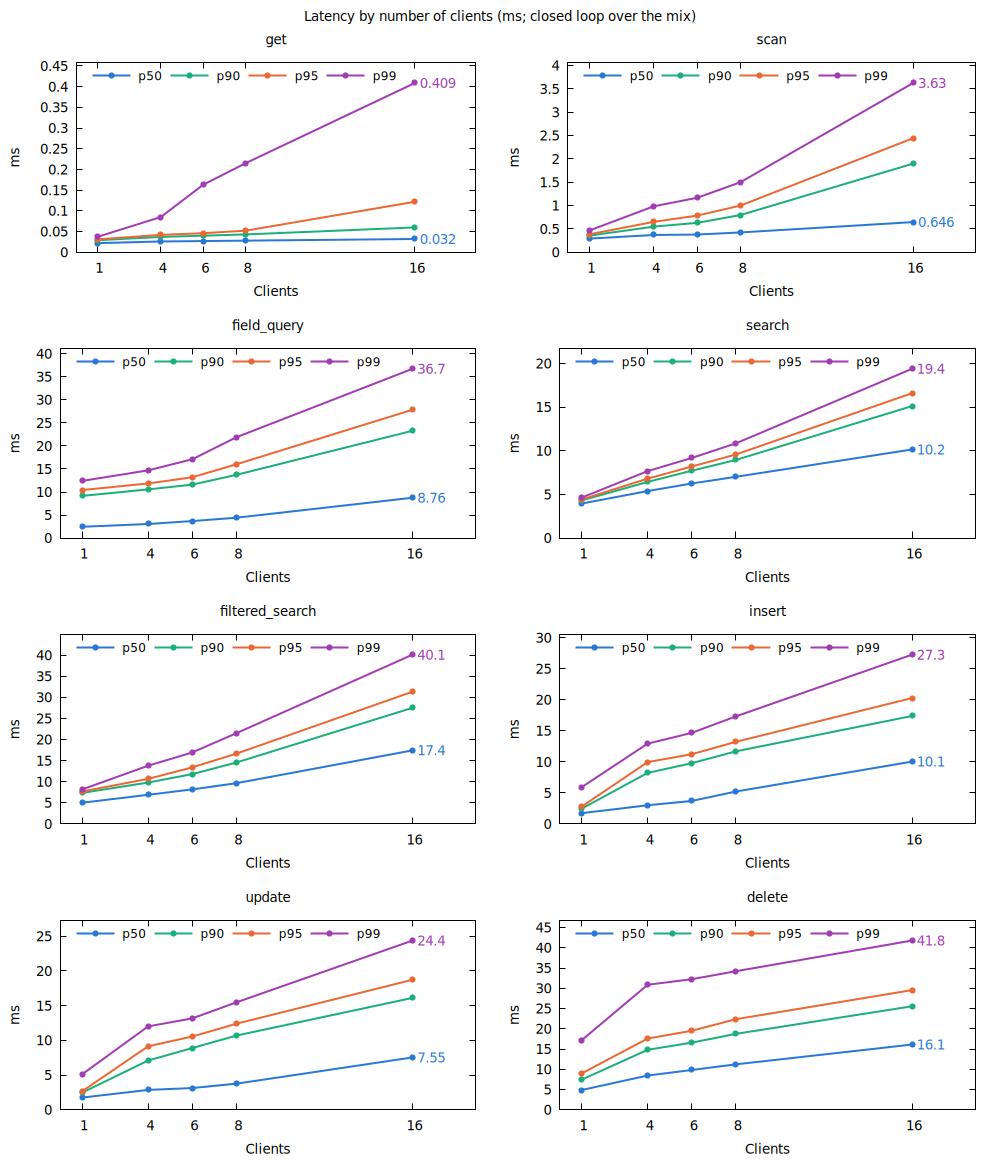
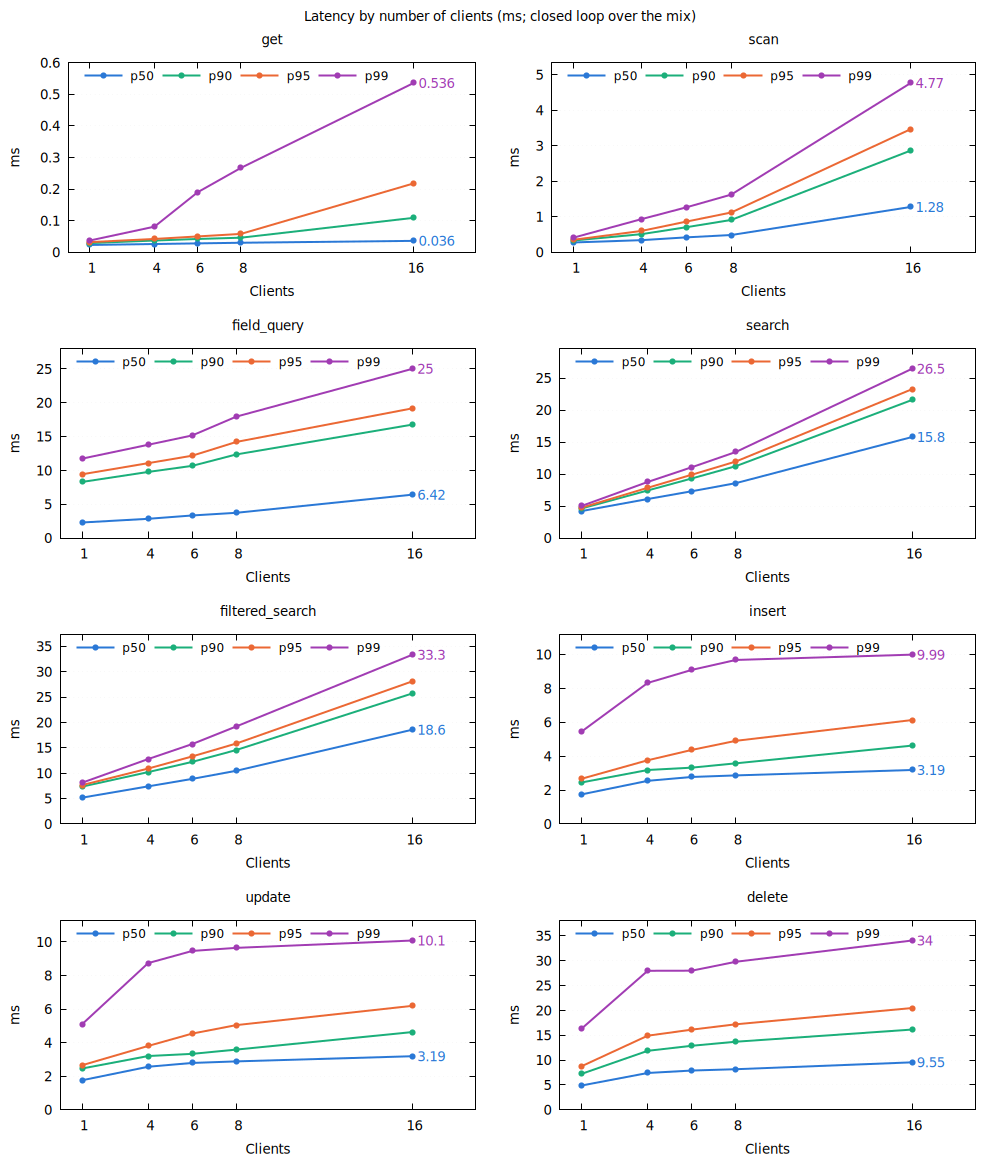
Refresh the engine benchmark in benchmark.md for the field-index worker
Engine benchmark at cf12cb1: writes 1.8 -> 3.2 ms at the median from 1 to 16
clients, 2,004 ops/s at 16. Explains where the time goes in a closed loop at
16 clients: writes hold few clients, so more queue at the search gate.

diff --git a/minnal_db/benchmark.md b/minnal_db/benchmark.md
@@ -21,7 +21,7 @@ to other hardware much better than the raw microseconds do.
 | A field-index equality query over 100,000 rows | 0.3–2.0 µs | [Field-index queries](#field-index-queries) |
 | A field-index range query over 100,000 rows | 55–130 µs | [Field-index queries](#field-index-queries) |
 | A semantic search over 5,000 documents | 1.0–4.8 ms, excluding the embedding call | [Semantic search](#semantic-search) |
-| The whole engine under load, 1 to 16 clients | 380 to 1,937 operations per second; searches 4.0 to 10.2 ms at the median; documents searchable 11–12 ms after their write at the median (embeddings replayed, not computed) | [Latency by number of clients](#latency-by-number-of-clients) |
+| The whole engine under load, 1 to 16 clients | 376 to 2,004 operations per second; writes 1.8 to 3.2 ms at the median; searches 4.2 to 15.8 ms; documents searchable 11–22 ms after their write at the median (embeddings replayed, not computed) | [Latency by number of clients](#latency-by-number-of-clients) |
 
 The one number that shapes the write path: **a write costs 0.75 ms because it
 waits for the disk to confirm the data is safe** (an fsync). The WAL append
@@ -58,7 +58,7 @@ ran. So more writers mean more writes per fsync, not a queue for the disk.
 | Machine | AMD Ryzen 9 9950X3D (16 cores), 96 GB RAM, NVMe SSD, bare metal |
 | OS | Ubuntu 26.04, Linux 7.0.0-43 |
 | Rust | 1.99.1 |
-| Code | commit `9e8586a`; the range scans and typed iteration in [Scans](#scans) at commit `a11f16c`; [The engine at work](#the-engine-at-work) at commit `6daf8e4` |
+| Code | commit `9e8586a`; the range scans and typed iteration in [Scans](#scans) at commit `a11f16c`; [The engine at work](#the-engine-at-work) at commit `cf12cb1` |
 | Date | 2026-11-15 |
 
 To reproduce everything, including the charts:
@@ -441,15 +441,15 @@ works, and what it leaves out, follows them.
 
 ### Latency by number of clients
 
-Code at commit `6daf8e4`, on 2026-11-15, on the machine under [Setup](#setup),
+Code at commit `cf12cb1`, on 2026-11-15, on the machine under [Setup](#setup),
 with jemalloc as the allocator. Each cell ran once, and the soak lasted
 10 minutes ([What is measured](#what-is-measured) explains both). Every cell
 was valid.
 
 ![Operations per second, by number of clients](docs/benchmarks/engine_throughput.png)
 
-Throughput rises from 380 operations per second with one client to 1,937 with
-16, 5.1 times as many. Throughput times mean latency equals the number of
+Throughput rises from 376 operations per second with one client to 2,004 with
+16, 5.3 times as many. Throughput times mean latency equals the number of
 clients in every cell, as a closed loop requires.
 
 ![Latency of each operation, by number of clients](docs/benchmarks/engine_latency.png)
@@ -460,40 +460,52 @@ p99.9 included, is in [engine_latency.md](docs/benchmarks/engine_latency.md).*
 
 What the charts show:
 
-- **Reads stay fast.** `get` has a median of 0.02–0.03 ms at every client
-  count; its p99 rises from 0.04 to 0.41 ms. `scan`'s median goes from 0.29 to
-  0.65 ms, and `field_query`'s from 2.5 to 8.8 ms, with a p99 of 12–37 ms.
-- **Searches slow gradually.** The median `search` takes 4.0 ms with one client
-  and 10.2 ms with 16; its p99 goes from 4.6 to 19.4 ms. At most four searches
-  score their candidates at once, each spread over the cores, and the others
-  wait their turn in order, so a search's time grows with the searches ahead
-  of it. `filtered_search` costs more than `search`: 1.1 ms more at the median
-  with one client, 7.3 ms with 16.
-- **Writes share fsyncs.** The median `insert` and `update` take 1.7–1.8 ms
-  with one client; with 16, `insert` takes 10.1 ms and `update` 7.6 ms, while
-  the clients write about 440 documents a second between them; `delete` takes
-  4.9 ms and 16.1 ms. A document write is at
-  least two WAL writes (the document, then its entry in the embedding queue),
-  and concurrent writes share each fsync. A delete first removes the
-  document's vector-index entries, each a durable delete of its own, which is
-  why it costs about three inserts with one client.
+- **Reads stay fast.** `get` has a median of 0.02–0.04 ms at every client
+  count; its p99 rises from 0.04 to 0.54 ms. `scan`'s median goes from 0.28 to
+  1.28 ms, and `field_query`'s from 2.3 to 6.4 ms, with a p99 of 12–25 ms.
+- **Searches slow as more of them wait.** The median `search` takes 4.2 ms
+  with one client and 15.8 ms with 16; its p99 goes from 5.0 to 26.5 ms. At
+  most four searches score their candidates at once, each spread over the
+  cores, and the others wait their turn in order, so a search's time grows
+  with the searches ahead of it. `filtered_search` costs more than `search`:
+  1.0 ms more at the median with one client, 2.8 ms with 16.
+- **Writes return without waiting for the field indexes.** The median
+  `insert` and `update` take 1.8 ms with one client and 3.2 ms with 16 (p99
+  10 ms), while the clients write about 460 documents a second between them;
+  `delete` takes 4.9 ms and 9.6 ms. A document write is at least two WAL
+  writes (the document, then its entry in the embedding queue), and
+  concurrent writes share each fsync. A write queues its field-index changes
+  and returns; a background worker applies them, waiting 20 ms after a write
+  wakes it (`scheduled_tasks.index_apply_delay_ms`) so a burst is applied in
+  one pass, which is about how long a field query can lag a write. A delete
+  first removes the document's vector-index entries, each a durable delete of
+  its own, which is why it costs about three inserts with one client.
+- **Where the time goes with 16 clients.** Each client sends its next request
+  when the last returns, so a client not waiting on one operation is waiting
+  on another. Writes return in about 3 ms, so between them they hold 2.6 of
+  the 16 clients at a time, and much of the rest queue for the search gate:
+  8.1 searches are in flight on average, while the gate's four slots complete
+  one every 6.2 ms each. Most of a search's 15.8 ms median there is that
+  queue; with requests arriving at a steady rate rather than from a fixed set
+  of clients, it would be shorter. The busy cores are also why `scan`'s median
+  and `get`'s p99 rise with the client count.
 - **Indexing keeps up at every client count.** Embeddings come from a table
   recorded from the embedding service, so this leaves out the service's own
   time (see [How it runs](#how-it-runs)). The time from a write's
   acknowledgement until its document is searchable has a median of 11 ms
-  with 1 to 8 clients and 12 ms with 16, and a p99 of 12–44 ms. In the 10-minute
-  soak at 4 clients (1,041 operations per second) the median stayed at 11 ms and
-  the indexing backlog at 2 documents (7 at most). Disk use rose and fell
-  between 265 and 482 MiB as garbage collection reclaimed space, with no upward
-  trend, and resident memory stayed between 1.45 and 1.60 GiB (0.93 GiB of it
-  the benchmark's replay table).
+  with 1 to 6 clients, 12 ms with 8 and 22 ms with 16, and a p99 of 12–60 ms.
+  In the 10-minute soak at 4 clients (1,064 operations per second) the median
+  stayed at 11 ms and the indexing backlog at 2 documents (6 at most). Disk use
+  rose and fell between 266 and 483 MiB as garbage collection reclaimed space,
+  with no upward trend, and resident memory stayed between 1.44 and 1.61 GiB
+  (0.93 GiB of it the benchmark's replay table).
 - **Alone against in the mix.** Reads sent alone are faster than the same
   reads in the 1-client mix (`get` 0.01 against 0.02 ms, `scan` 0.21 against
-  0.29 ms), where they share the machine with searches and indexing. We have not
+  0.28 ms), where they share the machine with searches and indexing. We have not
   measured which part of that work slows them. Inserts sent alone are *slower*
-  (2.5 against 1.7 ms at the median): a client sending only inserts drove
-  45,000 document writes in 2 minutes 15 seconds, with 146,000 key-value puts
-  across the engine and 809 vector-partition splits as the store grew, against
+  (2.4 against 1.8 ms at the median): a client sending only inserts drove
+  46,000 document writes in 2 minutes 15 seconds, with 150,000 key-value puts
+  across the engine and 826 vector-partition splits as the store grew, against
   41,000 puts and no split in the 3 minutes 15 seconds of the 1-client mix.
 
 Search quality held through the run (nDCG, FiQA test queries):
@@ -501,8 +513,8 @@ Search quality held through the run (nDCG, FiQA test queries):
 | | @10 | @20 | @30 | @40 | @50 | @100 |
 |---|---:|---:|---:|---:|---:|---:|
 | Before the run | 0.501 | 0.527 | 0.538 | 0.545 | 0.551 | 0.564 |
-| Under load, concurrent cells | 0.508 | 0.535 | 0.546 | 0.552 | 0.557 | 0.571 |
-| At rest after the run | 0.505 | 0.534 | 0.544 | 0.551 | 0.556 | 0.570 |
+| Under load, concurrent cells | 0.507 | 0.536 | 0.544 | 0.551 | 0.556 | 0.570 |
+| At rest after the run | 0.507 | 0.535 | 0.545 | 0.551 | 0.556 | 0.569 |
 
 The store changes during the run (documents are deleted, rewritten and
 inserted), so the rows measure slightly different stores, not only a busier

diff --git a/minnal_db/docs/benchmarks/engine_latency.md b/minnal_db/docs/benchmarks/engine_latency.md
@@ -4,92 +4,92 @@ The figures behind the charts in `benchmark.md` → *Latency by number of client
 
 | Clients | 1 | 4 | 6 | 8 | 16 |
 |---|---:|---:|---:|---:|---:|
-| Operations per second | 380 | 1046 | 1343 | 1539 | 1937 |
+| Operations per second | 376 | 1081 | 1398 | 1638 | 2004 |
 
 **`get`** (ms)
 
 | Clients | p50 | p75 | p90 | p95 | p99 | p99.9 |
 |---:|---:|---:|---:|---:|---:|---:|
 | alone | 0.01 | 0.01 | 0.01 | 0.01 | 0.01 | 0.02 |
-| 1 | 0.02 | 0.03 | 0.03 | 0.03 | 0.04 | 0.04 |
-| 4 | 0.03 | 0.03 | 0.04 | 0.04 | 0.09 | 0.60 |
-| 6 | 0.03 | 0.03 | 0.04 | 0.05 | 0.16 | 0.67 |
-| 8 | 0.03 | 0.04 | 0.04 | 0.05 | 0.21 | 0.74 |
-| 16 | 0.03 | 0.04 | 0.06 | 0.12 | 0.41 | 0.90 |
+| 1 | 0.02 | 0.03 | 0.03 | 0.03 | 0.04 | 0.05 |
+| 4 | 0.03 | 0.03 | 0.04 | 0.04 | 0.08 | 0.56 |
+| 6 | 0.03 | 0.04 | 0.04 | 0.05 | 0.19 | 0.76 |
+| 8 | 0.03 | 0.04 | 0.05 | 0.06 | 0.27 | 0.75 |
+| 16 | 0.04 | 0.05 | 0.11 | 0.22 | 0.54 | 1.03 |
 
 **`scan`** (ms)
 
 | Clients | p50 | p75 | p90 | p95 | p99 | p99.9 |
 |---:|---:|---:|---:|---:|---:|---:|
-| alone | 0.21 | 0.23 | 0.24 | 0.25 | 0.28 | 0.51 |
-| 1 | 0.29 | 0.33 | 0.36 | 0.38 | 0.46 | 2.21 |
-| 4 | 0.37 | 0.44 | 0.55 | 0.65 | 0.99 | 3.47 |
-| 6 | 0.38 | 0.48 | 0.63 | 0.79 | 1.17 | 3.44 |
-| 8 | 0.42 | 0.57 | 0.80 | 1.00 | 1.50 | 3.23 |
-| 16 | 0.65 | 1.15 | 1.90 | 2.44 | 3.63 | 5.61 |
+| alone | 0.21 | 0.24 | 0.26 | 0.28 | 0.31 | 0.52 |
+| 1 | 0.28 | 0.30 | 0.33 | 0.35 | 0.41 | 2.18 |
+| 4 | 0.34 | 0.41 | 0.51 | 0.60 | 0.93 | 2.78 |
+| 6 | 0.42 | 0.53 | 0.70 | 0.86 | 1.26 | 4.23 |
+| 8 | 0.48 | 0.65 | 0.91 | 1.12 | 1.62 | 3.30 |
+| 16 | 1.28 | 2.03 | 2.87 | 3.47 | 4.77 | 7.07 |
 
 **`field_query`** (ms)
 
 | Clients | p50 | p75 | p90 | p95 | p99 | p99.9 |
 |---:|---:|---:|---:|---:|---:|---:|
-| alone | 2.39 | 5.94 | 8.89 | 10.1 | 11.9 | 13.7 |
-| 1 | 2.46 | 6.13 | 9.16 | 10.4 | 12.4 | 14.2 |
-| 4 | 3.06 | 7.26 | 10.6 | 11.9 | 14.7 | 24.7 |
-| 6 | 3.70 | 8.27 | 11.6 | 13.2 | 17.1 | 28.7 |
-| 8 | 4.42 | 9.82 | 13.7 | 16.0 | 21.9 | 31.3 |
-| 16 | 8.76 | 16.4 | 23.3 | 27.9 | 36.7 | 47.1 |
+| alone | 2.25 | 5.39 | 7.97 | 9.01 | 11.1 | 13.0 |
+| 1 | 2.31 | 5.62 | 8.30 | 9.43 | 11.7 | 16.4 |
+| 4 | 2.85 | 6.69 | 9.78 | 11.1 | 13.8 | 23.7 |
+| 6 | 3.34 | 7.49 | 10.7 | 12.2 | 15.2 | 28.6 |
+| 8 | 3.74 | 8.57 | 12.4 | 14.2 | 17.9 | 29.7 |
+| 16 | 6.42 | 12.3 | 16.8 | 19.2 | 25.0 | 41.7 |
 
 **`search`** (ms)
 
 | Clients | p50 | p75 | p90 | p95 | p99 | p99.9 |
 |---:|---:|---:|---:|---:|---:|---:|
-| alone | 3.76 | 3.87 | 3.98 | 4.06 | 4.22 | 4.62 |
-| 1 | 3.95 | 4.13 | 4.31 | 4.42 | 4.63 | 5.05 |
-| 4 | 5.39 | 5.92 | 6.44 | 6.80 | 7.67 | 8.83 |
-| 6 | 6.25 | 6.99 | 7.72 | 8.20 | 9.18 | 10.5 |
-| 8 | 7.02 | 7.99 | 8.95 | 9.57 | 10.8 | 12.3 |
-| 16 | 10.2 | 12.7 | 15.1 | 16.6 | 19.4 | 22.6 |
+| alone | 3.85 | 3.96 | 4.07 | 4.15 | 4.33 | 4.88 |
+| 1 | 4.22 | 4.44 | 4.63 | 4.76 | 5.02 | 5.79 |
+| 4 | 6.11 | 6.79 | 7.44 | 7.86 | 8.77 | 10.2 |
+| 6 | 7.32 | 8.34 | 9.32 | 9.90 | 11.1 | 12.9 |
+| 8 | 8.59 | 9.98 | 11.2 | 12.0 | 13.5 | 15.5 |
+| 16 | 15.8 | 18.7 | 21.6 | 23.3 | 26.5 | 30.4 |
 
 **`filtered_search`** (ms)
 
 | Clients | p50 | p75 | p90 | p95 | p99 | p99.9 |
 |---:|---:|---:|---:|---:|---:|---:|
-| alone | 4.90 | 6.30 | 7.12 | 7.42 | 7.82 | 8.22 |
-| 1 | 5.04 | 6.51 | 7.37 | 7.71 | 8.18 | 8.90 |
-| 4 | 6.92 | 8.58 | 9.82 | 10.7 | 13.8 | 17.7 |
-| 6 | 8.20 | 10.1 | 11.8 | 13.4 | 16.9 | 22.3 |
-| 8 | 9.66 | 12.0 | 14.6 | 16.7 | 21.5 | 30.2 |
-| 16 | 17.4 | 22.2 | 27.5 | 31.3 | 40.1 | 50.2 |
+| alone | 4.76 | 6.07 | 6.82 | 7.11 | 7.51 | 8.03 |
+| 1 | 5.18 | 6.53 | 7.36 | 7.66 | 8.12 | 9.18 |
+| 4 | 7.41 | 8.95 | 10.2 | 10.9 | 12.8 | 18.2 |
+| 6 | 8.88 | 10.7 | 12.2 | 13.3 | 15.7 | 27.6 |
+| 8 | 10.5 | 12.6 | 14.6 | 15.8 | 19.2 | 29.1 |
+| 16 | 18.6 | 22.2 | 25.7 | 28.1 | 33.3 | 48.8 |
 
 **`insert`** (ms)
 
 | Clients | p50 | p75 | p90 | p95 | p99 | p99.9 |
 |---:|---:|---:|---:|---:|---:|---:|
-| alone | 2.52 | 3.19 | 4.52 | 5.53 | 8.87 | 26.8 |
-| 1 | 1.74 | 2.30 | 2.46 | 2.79 | 5.92 | 22.6 |
-| 4 | 3.02 | 4.95 | 8.23 | 9.97 | 12.9 | 27.9 |
-| 6 | 3.71 | 6.72 | 9.79 | 11.2 | 14.7 | 29.9 |
-| 8 | 5.22 | 8.68 | 11.7 | 13.2 | 17.3 | 32.7 |
-| 16 | 10.1 | 13.9 | 17.4 | 20.3 | 27.3 | 40.6 |
+| alone | 2.41 | 3.16 | 4.53 | 5.55 | 8.44 | 23.5 |
+| 1 | 1.75 | 2.28 | 2.45 | 2.67 | 5.45 | 11.8 |
+| 4 | 2.55 | 2.97 | 3.19 | 3.76 | 8.32 | 25.8 |
+| 6 | 2.77 | 3.09 | 3.32 | 4.37 | 9.09 | 25.6 |
+| 8 | 2.87 | 3.10 | 3.58 | 4.91 | 9.68 | 26.1 |
+| 16 | 3.19 | 3.65 | 4.63 | 6.13 | 9.99 | 28.1 |
 
 **`update`** (ms)
 
 | Clients | p50 | p75 | p90 | p95 | p99 | p99.9 |
 |---:|---:|---:|---:|---:|---:|---:|
-| alone | 2.05 | 2.40 | 2.91 | 3.05 | 5.93 | 23.3 |
-| 1 | 1.77 | 2.33 | 2.47 | 2.67 | 5.11 | 14.5 |
-| 4 | 2.87 | 3.85 | 7.11 | 9.15 | 12.0 | 24.4 |
-| 6 | 3.14 | 5.54 | 8.89 | 10.6 | 13.2 | 26.7 |
-| 8 | 3.77 | 7.24 | 10.7 | 12.4 | 15.5 | 29.8 |
-| 16 | 7.55 | 12.4 | 16.1 | 18.7 | 24.4 | 36.4 |
+| alone | 2.07 | 2.42 | 2.95 | 3.13 | 6.44 | 22.8 |
+| 1 | 1.76 | 2.29 | 2.46 | 2.66 | 5.09 | 22.2 |
+| 4 | 2.57 | 2.98 | 3.20 | 3.81 | 8.74 | 24.4 |
+| 6 | 2.79 | 3.10 | 3.33 | 4.54 | 9.46 | 25.5 |
+| 8 | 2.88 | 3.12 | 3.59 | 5.05 | 9.64 | 26.3 |
+| 16 | 3.19 | 3.65 | 4.63 | 6.20 | 10.1 | 23.0 |
 
 **`delete`** (ms)
 
 | Clients | p50 | p75 | p90 | p95 | p99 | p99.9 |
 |---:|---:|---:|---:|---:|---:|---:|
-| alone | 5.31 | 6.22 | 7.80 | 9.32 | 17.6 | 31.5 |
-| 1 | 4.89 | 5.93 | 7.44 | 8.97 | 17.2 | 27.8 |
-| 4 | 8.47 | 11.1 | 14.8 | 17.6 | 30.9 | 53.5 |
-| 6 | 9.84 | 13.0 | 16.6 | 19.5 | 32.2 | 49.1 |
-| 8 | 11.2 | 14.8 | 18.8 | 22.4 | 34.2 | 54.6 |
-| 16 | 16.1 | 20.6 | 25.6 | 29.6 | 41.8 | 67.3 |
+| alone | 5.37 | 6.31 | 7.86 | 9.46 | 16.2 | 28.3 |
+| 1 | 4.90 | 5.92 | 7.24 | 8.77 | 16.3 | 28.9 |
+| 4 | 7.41 | 9.04 | 11.9 | 14.9 | 28.0 | 45.7 |
+| 6 | 7.90 | 9.67 | 12.9 | 16.1 | 28.0 | 46.8 |
+| 8 | 8.17 | 10.1 | 13.7 | 17.2 | 29.8 | 49.3 |
+| 16 | 9.55 | 12.0 | 16.1 | 20.5 | 34.0 | 60.6 |
